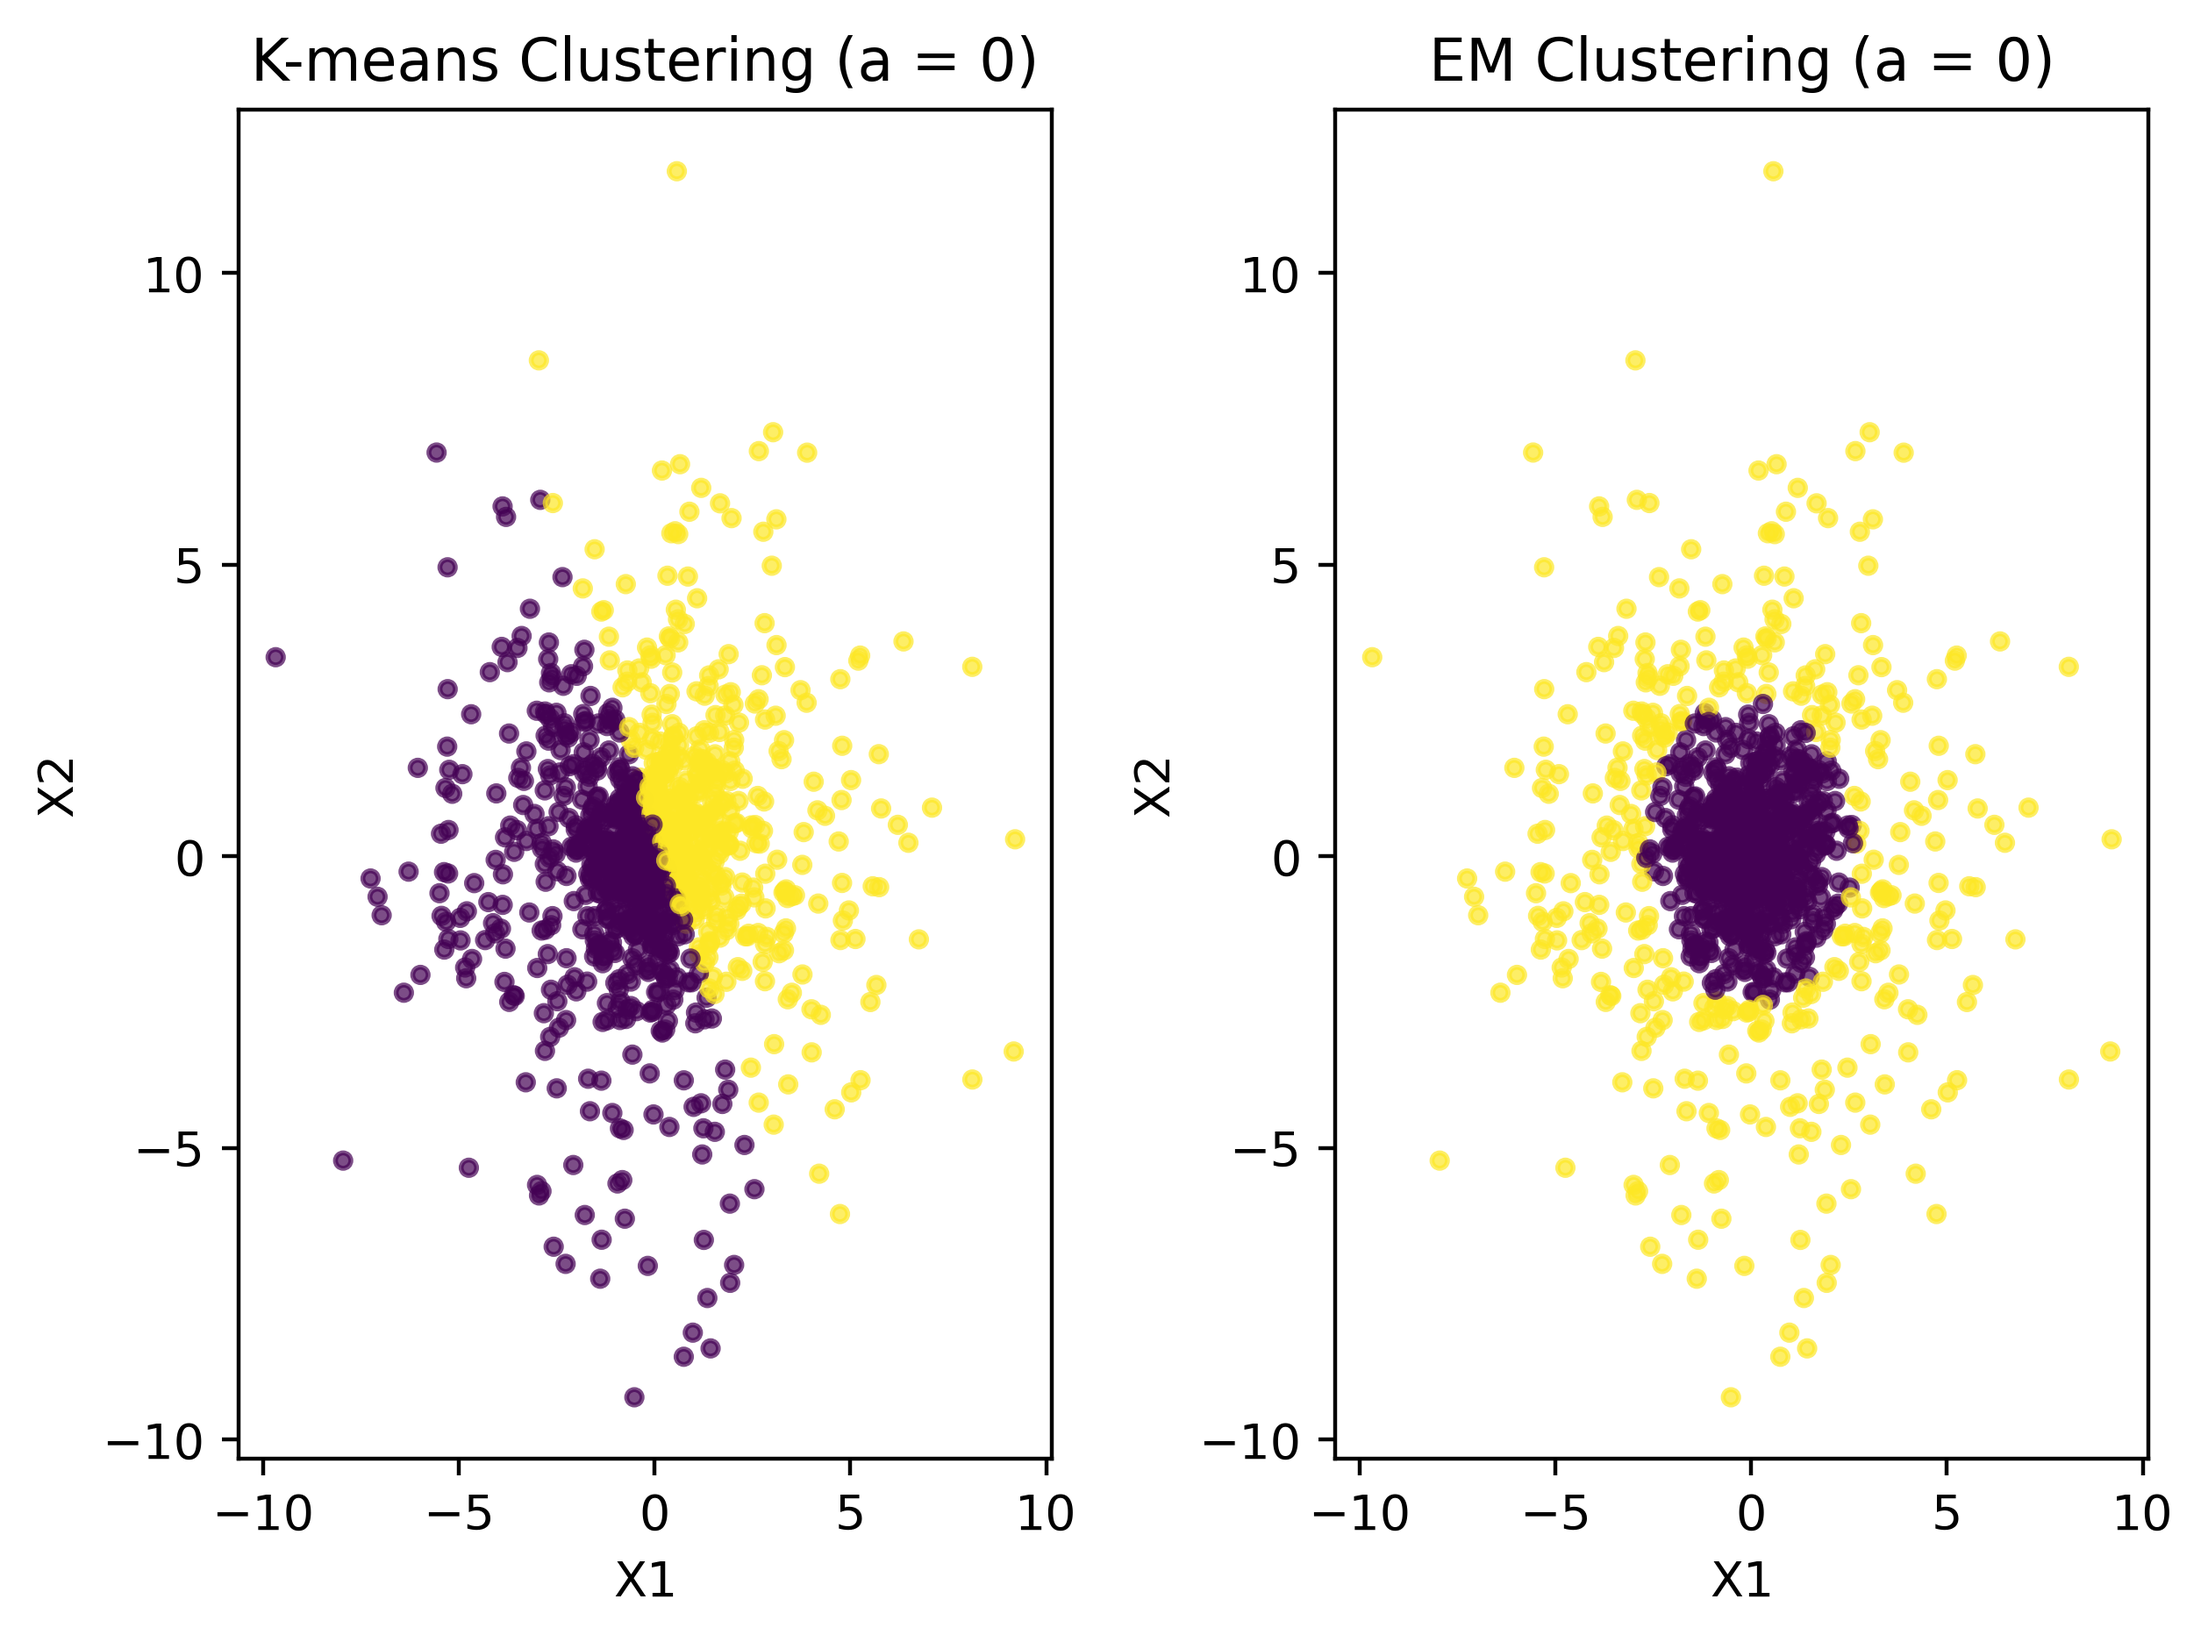
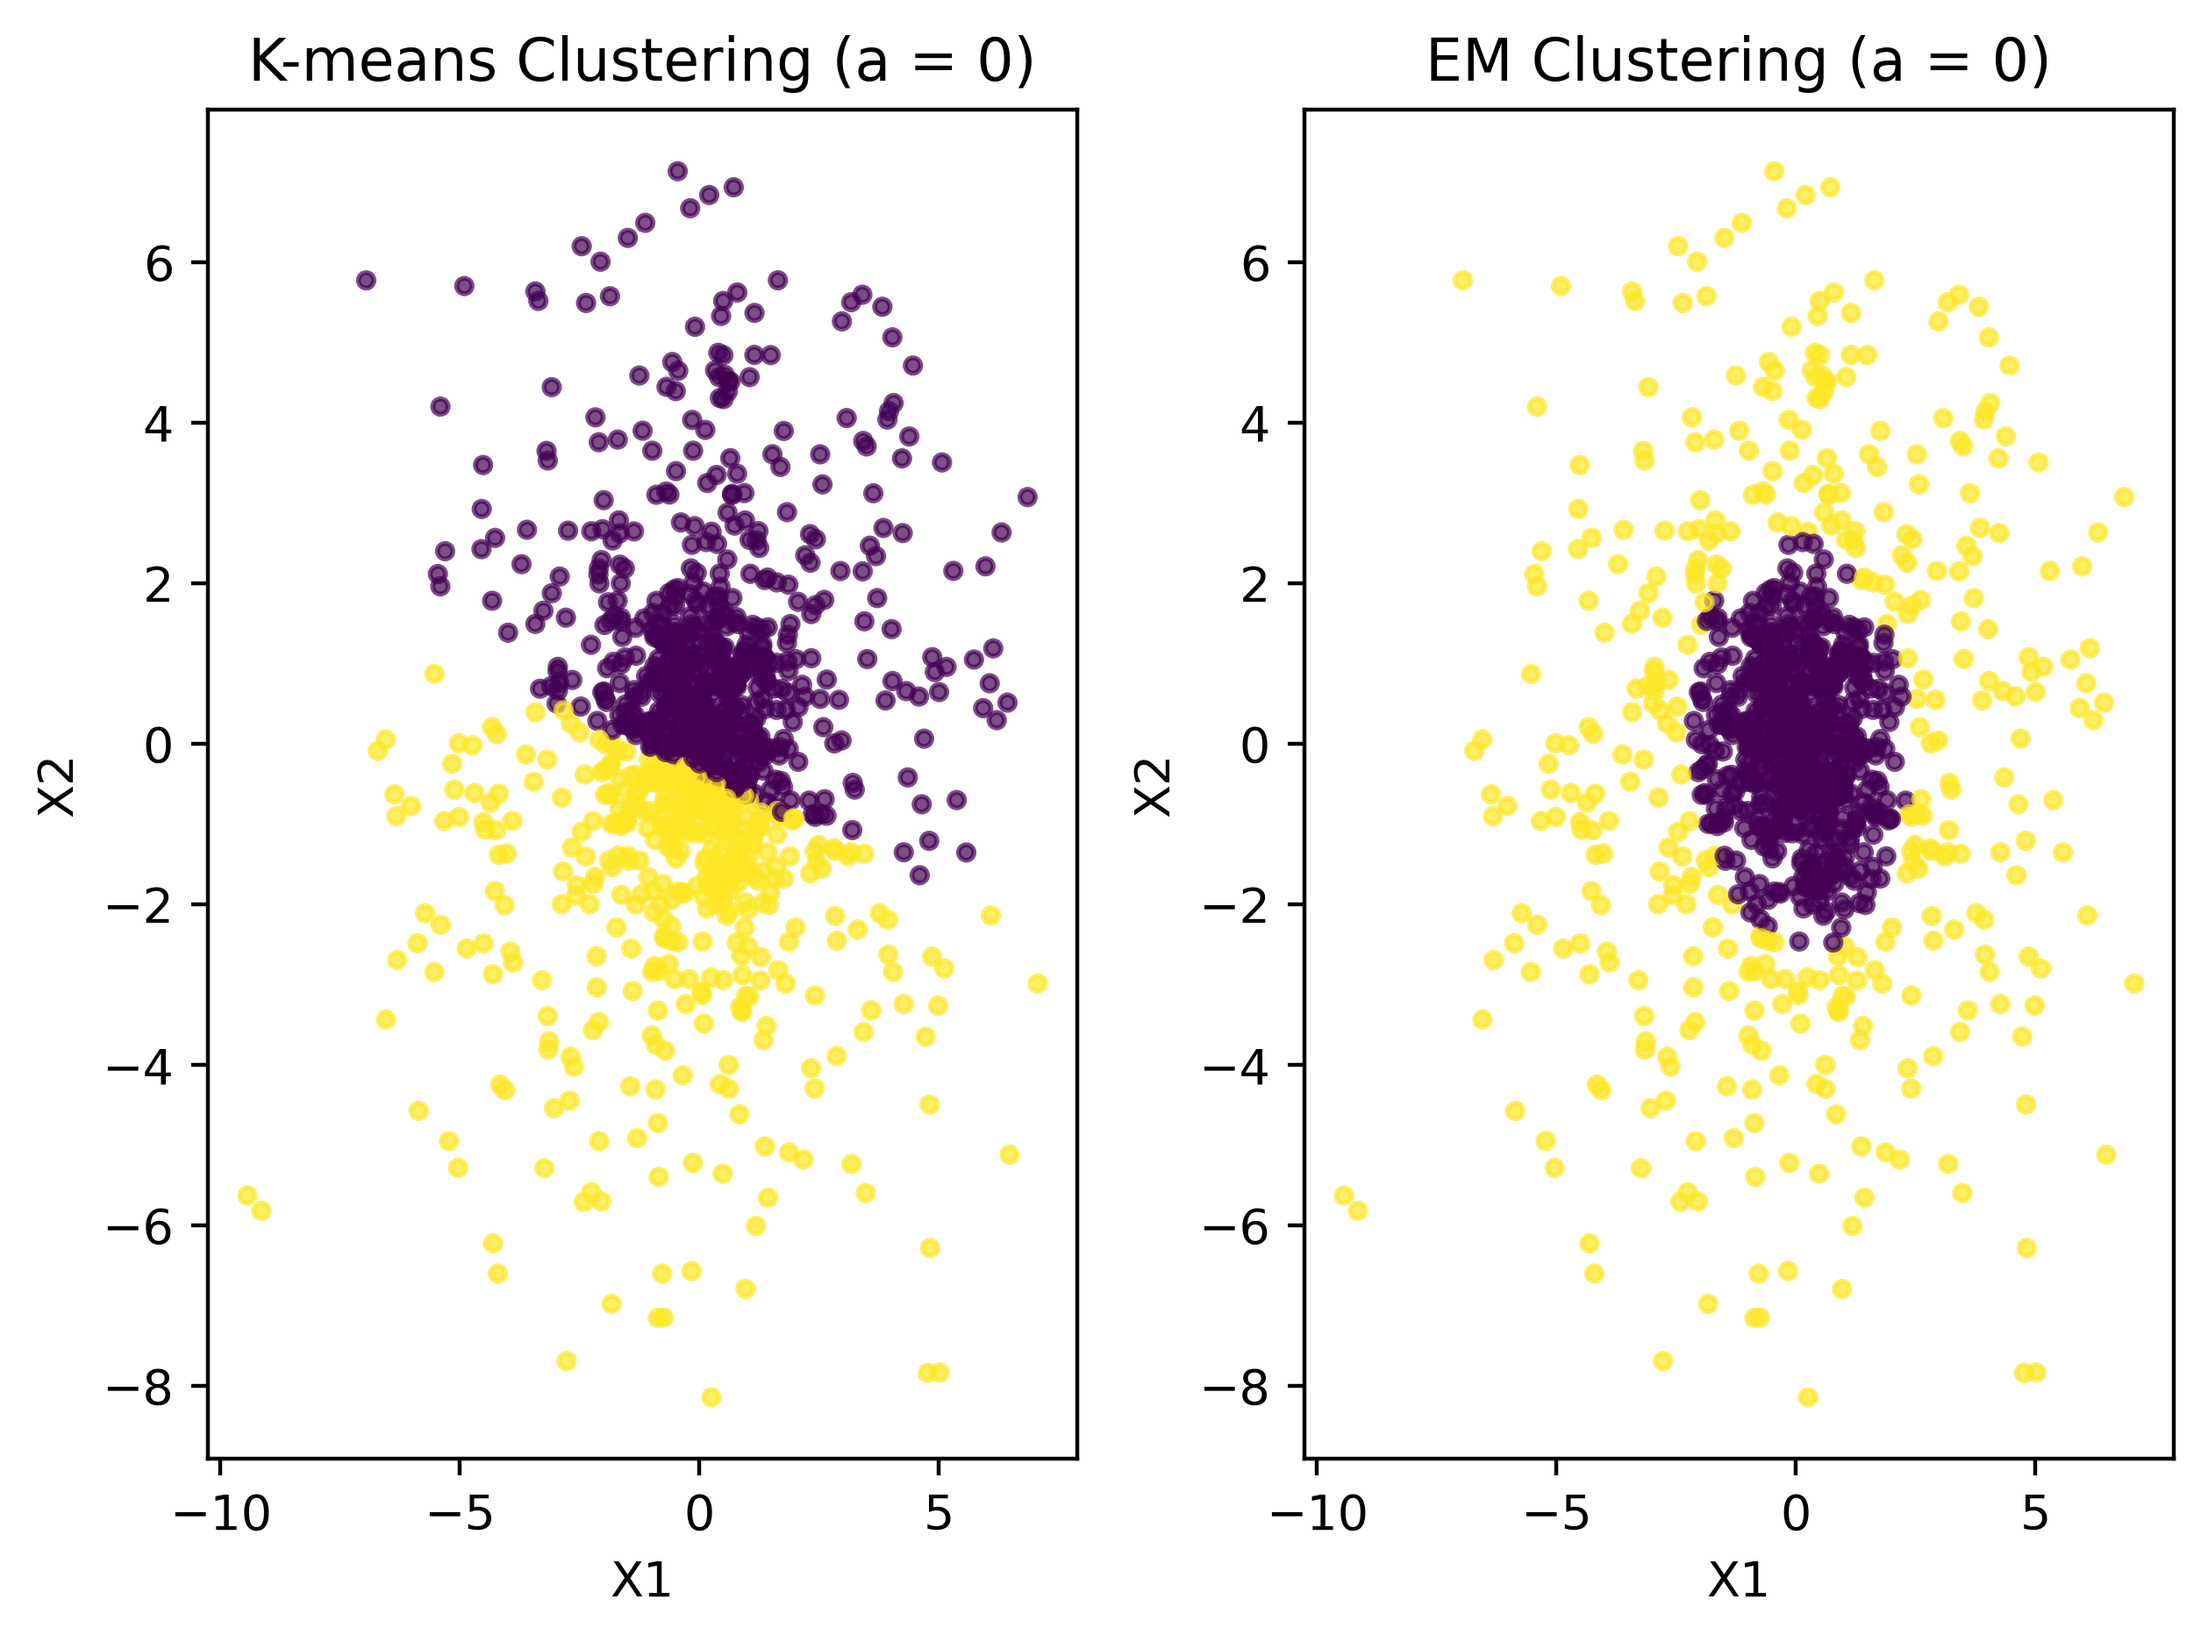
need to add last plot

diff --git a/assignments/hw08/code/hw08.py b/assignments/hw08/code/hw08.py
@@ -260,9 +260,11 @@ for i in range(10):
     M = np.random.normal(0, 1, size=(2, 2))
     
     #SVD decomposition
+    #U rotates the data
     U, S, Vh = np.linalg.svd(M)
 
     #create Sigma matrix from U
+    #each run produces a rotated matrix with different variances along the two dimensions
     D = np.diag([25,1])
     Sigma = U @ D @ U.T
 
@@ -328,14 +330,15 @@ for i in range(10):
         "ARI_EM": adjusted_rand_score(y, EM_cluster_labels),
     })
 
-#plotting the clustering results for the first four runs.  
+#plotting the clustering results for the first four runs.
+for i in plot_runs:
+    break
 
 #plotting the accuracy bs KL divergence for the three methods across all 10 runs.
 results_df = pd.DataFrame(results)
 
 #add some jitter to see things better
 jitter = 0.02
-
 KL_id   = results_df["KL_divergence"] + np.random.normal(0, jitter, size=len(results_df))
 KL_full = results_df["KL_divergence"] + np.random.normal(0, jitter, size=len(results_df))
 KL_em   = results_df["KL_divergence"] + np.random.normal(0, jitter, size=len(results_df))
@@ -354,9 +357,22 @@ plt.savefig("assignments/hw08/figures/KL_vs_Accuracy.png", dpi=400, bbox_inches=
 plt.close()
 #plt.show()
 
+#plotting the Adjusted Rand Index vs KL divergence for the three methods across all 10 runs
+plt.figure()
+plt.scatter(KL_id, results_df["ARI_kmeans_id"], label="K-means Identity")
+plt.scatter(KL_full, results_df["ARI_kmeans_full"], label="K-means Full")
+plt.scatter(KL_em, results_df["ARI_EM"], label="EM")
+plt.xlabel("KL Divergence")
+plt.ylabel("Adjusted Rand Index")
+plt.title("Adjusted Rand Index vs KL Divergence for 3 Clustering Methods\nSmall Jitter Added for Visualization")
+plt.legend()
+plt.grid(alpha=0.3)
+plt.tight_layout()
+plt.savefig("assignments/hw08/figures/KL_vs_ARI.png", dpi=400, bbox_inches="tight")
+plt.close()
+
 #reporting the table and reordering the columns
-df = results_df[
-[
+df = results_df[[
 "run",
 "KL_divergence",
 "accuracy_kmeans_id",
@@ -365,8 +381,7 @@ df = results_df[
 "ARI_kmeans_full",
 "accuracy_EM",
 "ARI_EM"
-]
-].round(4)
+]].round(3)
 
 #need to send this table to LATEX
 LATEX_table = df.to_latex(
